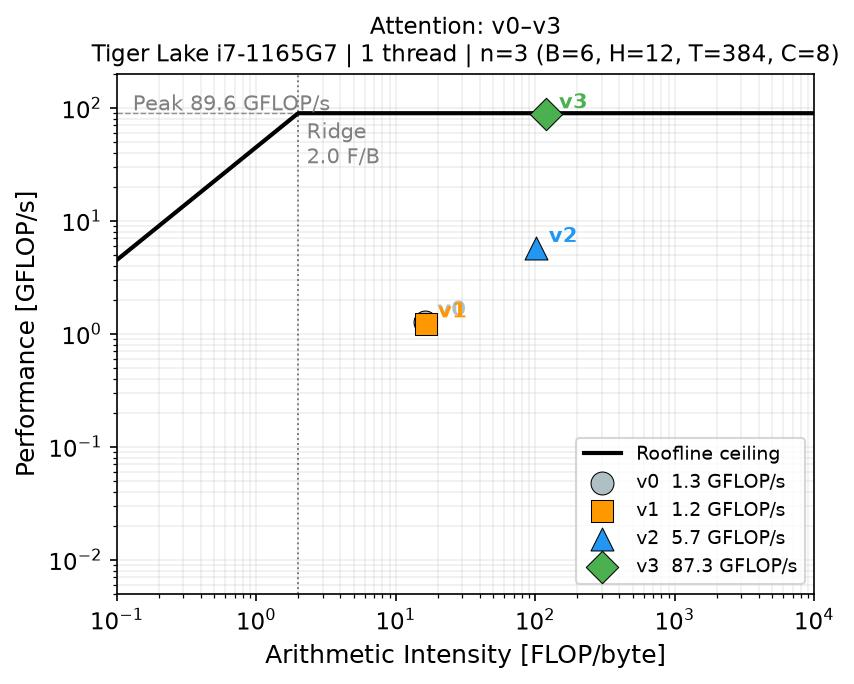
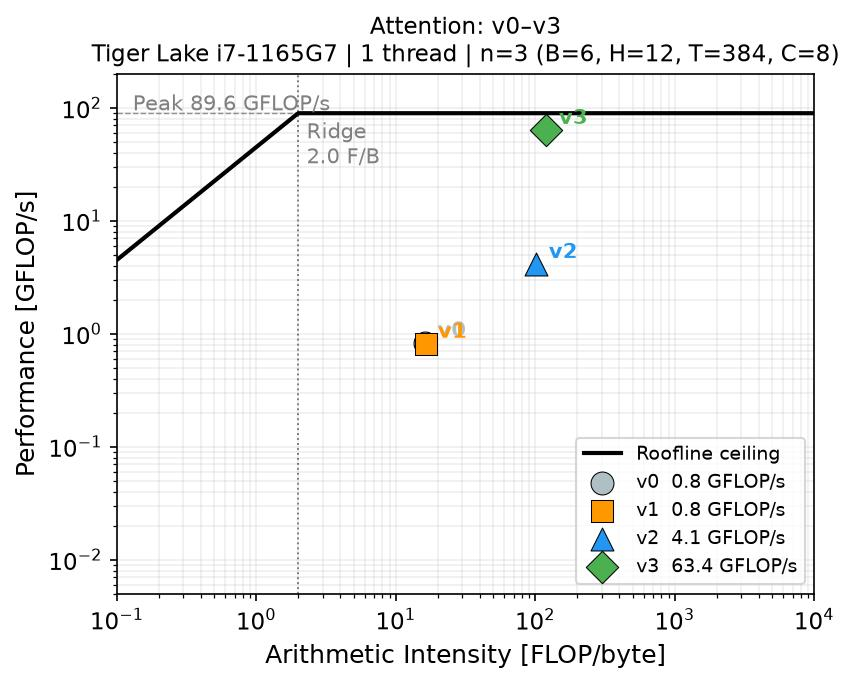
fix roofline plots: use FLOP/cycle x 2.8 GHz for GFLOP/s

diff --git a/benchmarks/plot_paper_figures.py b/benchmarks/plot_paper_figures.py
@@ -26,6 +26,7 @@ PEAK_BW_GBS = 45.0
 RIDGE       = PEAK_GFLOPS / PEAK_BW_GBS   # ~1.99 FLOP/byte
 L2_BYTES    = 1280 * 1024                  # Tiger Lake i7-1165G7
 L3_BYTES    = 12   * 1024 * 1024
+BASE_GHZ    = 2.8                          # Tiger Lake base clock (turbo-off)
 
 # ── Style ─────────────────────────────────────────────────────────────────────
 VC = {
@@ -78,9 +79,12 @@ def draw_roofline(ax):
 
 
 def papi_point(target):
+    """Clock-honest: FLOP/cycle * BASE_GHZ, immune to turbo boost."""
     p = PAPI3[target]
-    ai = p["arithmetic_intensity"]
-    gf = p["flops_per_call"] / p["min_s"] / 1e9
+    ai   = p["arithmetic_intensity"]
+    cyc  = p["papi_counters_mean_total_region"]["PAPI_TOT_CYC"]
+    flops = p["papi_counters_mean_total_region"]["PAPI_FP_OPS"]
+    gf   = (flops / cyc) * BASE_GHZ
     return ai, gf
 
 
@@ -165,9 +169,11 @@ KERN = {
 }
 
 def gflops_at_n(tgt, exp, n_ref=3):
-    """PAPI-anchored GFLOP/s at each n, using bench_repo timing ratios."""
+    """Clock-honest GFLOP/s at each n, using bench_repo timing ratios."""
     p = PAPI3[tgt]
-    papi_gf_n3 = p["flops_per_call"] / p["min_s"] / 1e9
+    cyc   = p["papi_counters_mean_total_region"]["PAPI_TOT_CYC"]
+    flops = p["papi_counters_mean_total_region"]["PAPI_FP_OPS"]
+    papi_gf_n3 = (flops / cyc) * BASE_GHZ  # clock-honest anchor at n=3
     t_n3 = REPO[tgt][n_ref]["min_ms"] / 1000.0
     results = []
     for n in range(1, 13):
@@ -307,7 +313,9 @@ PY_TIMING = {
 for name, t0, t3, py_key in summary_rows:
     s0, s3 = PAPI3[t0]["min_s"], PAPI3[t3]["min_s"]
     speedup_v0 = s0 / s3
-    gf3 = PAPI3[t3]["flops_per_call"] / s3 / 1e9
+    cyc3  = PAPI3[t3]["papi_counters_mean_total_region"]["PAPI_TOT_CYC"]
+    flops3 = PAPI3[t3]["papi_counters_mean_total_region"]["PAPI_FP_OPS"]
+    gf3 = (flops3 / cyc3) * BASE_GHZ  # clock-honest
     pct = gf3 / PEAK_GFLOPS * 100
     ai3 = PAPI3[t3]["arithmetic_intensity"]
     bound = "compute" if ai3 > RIDGE else "memory"